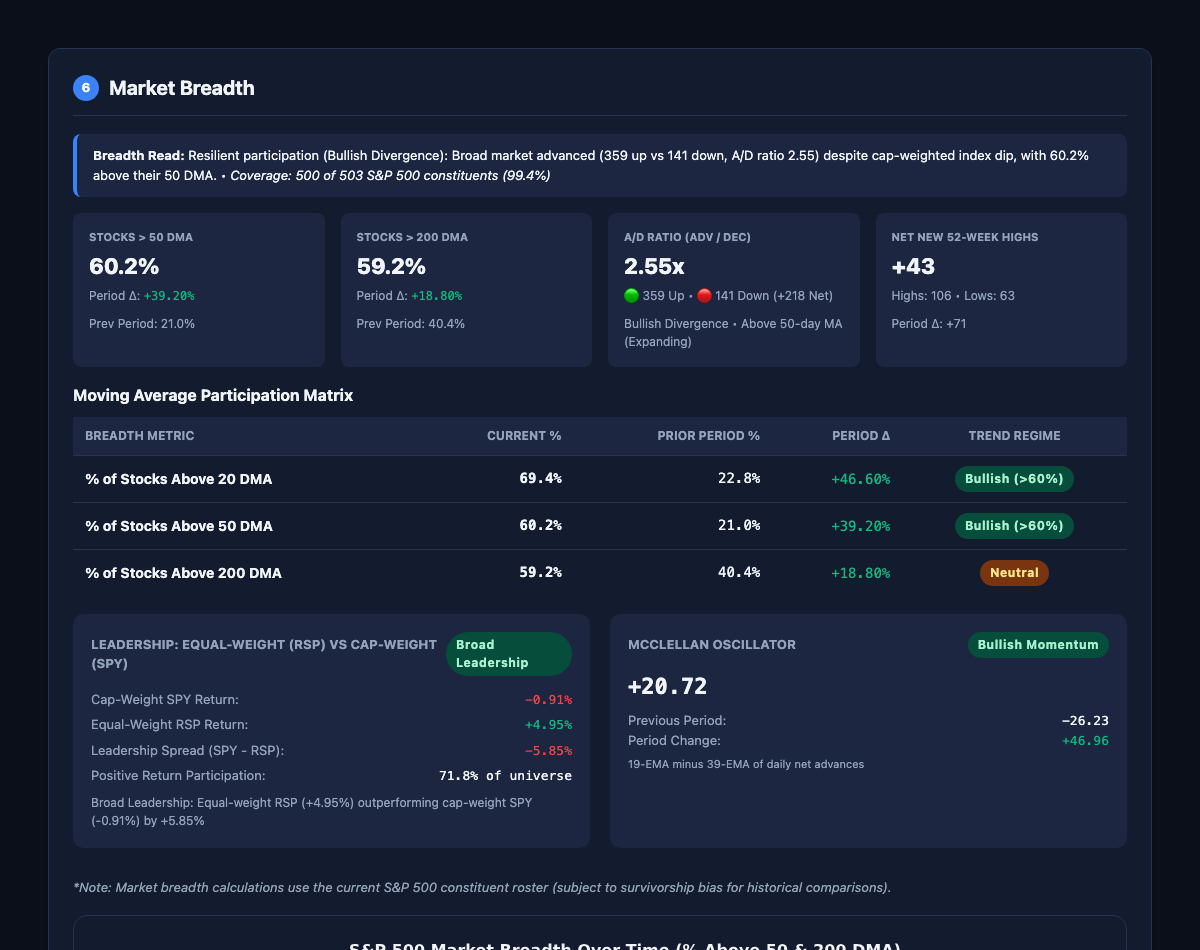
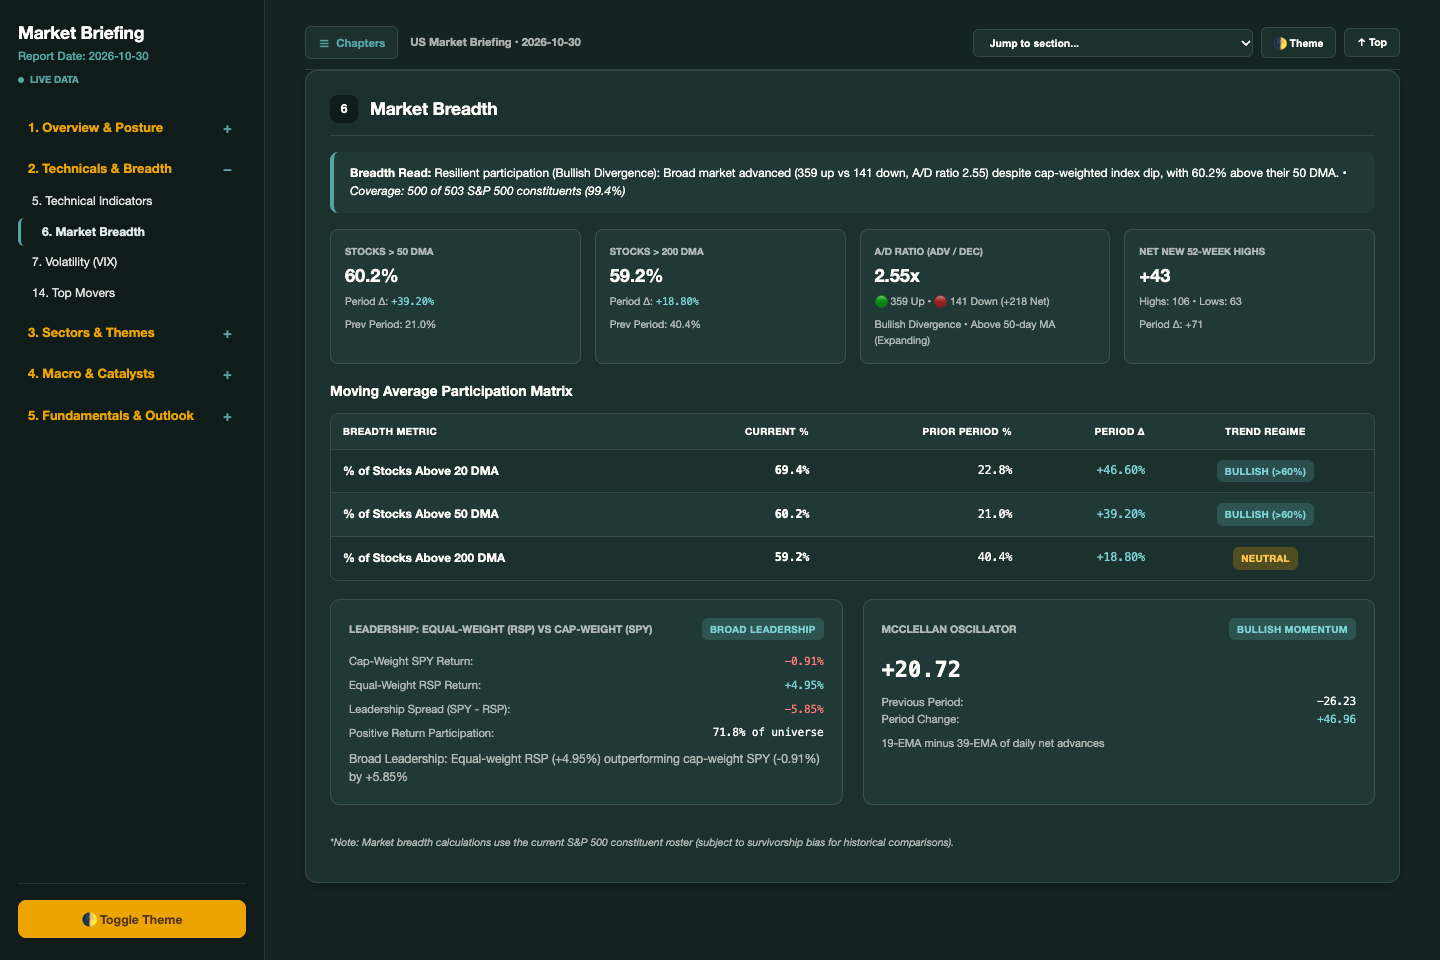
docs: update README and refresh preview screenshots

Changed region(s): [[0.0, 0.0, 0.9867, 0.9768], [0.3083, 0.9768, 0.74, 1.0]]

diff --git a/README.md b/README.md
@@ -44,10 +44,10 @@ Vectorized S&P 500 constituent breadth tracking % of stocks above key moving ave
 
 ![Market Breadth & Participation Matrix](./assets/preview_market_breadth.png)
 
-### Sector Performance & Relative Strength Matrix
-All 11 Select Sector SPDR ETFs ranked dynamically by period performance, benchmark relative strength against `SPY`, rank deltas, and constituent moving average distributions:
+### Sector Multi-Horizon Relative Return Heatmap
+All 11 Select Sector SPDR ETFs tracked dynamically across multiple time horizons (1-Day, 1-Week, 1-Month, 3-Month, and YTD) to identify capital rotation, momentum leadership, and tactical divergence:
 
-![Sector Relative Strength Matrix](./assets/preview_sector_matrix.png)
+![Sector Multi-Horizon Relative Return Heatmap](./assets/preview_sector_matrix.png)
 
 Generated reports are automatically saved to:
 - `reports/daily/YYYY-MM-DD.html`, `.md`, `.eml`
